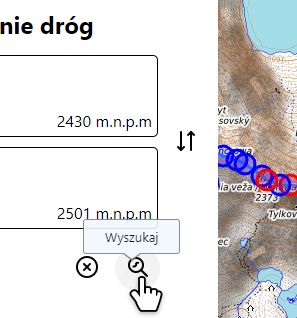
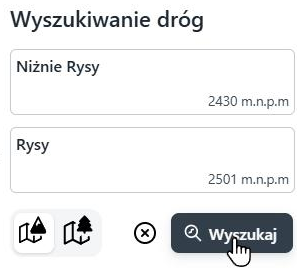
Nowe zrzuty ekranu w zakładce Pomoc
Zrzuty pokazują obecny wygląd aplikacji (symbole szczytów i przełęczy,
przycisk Wyszukaj, plakietka z liczbą wariantów). Opis wspomina
oznaczenia na mapie i plakietkę wariantów; poprawiona literówka
w opisach obrazków.

diff --git a/TatraRidges.FrontEnd/src/components/left-panel/help/HelpPanel.tsx b/TatraRidges.FrontEnd/src/components/left-panel/help/HelpPanel.tsx
@@ -16,15 +16,16 @@ const HelpPanel: React.FC = () => {
 				<p>
 					Żeby wyszukać połączenie graniowe pomiędzy dwoma
 					szczytami/przełęczami, należy zaznaczyć lewym przyciskiem myszy punkty
-					jeden po drugim.
+					jeden po drugim. Szczyty są oznaczone na mapie trójkątem, a przełęcze
+					znakiem )( ułożonym wzdłuż grani.
 				</p>
 				<img
-					alt='Zazaczanie punktu początkowego'
+					alt='Zaznaczanie punktu początkowego'
 					className={classes.img}
 					src={infoImg1}
 				/>
 				<img
-					alt='Zazaczanie punktu końcowego'
+					alt='Zaznaczanie punktu końcowego'
 					className={classes.img}
 					src={infoImg2}
 				/>
@@ -51,8 +52,8 @@ const HelpPanel: React.FC = () => {
 					</ol>
 				</span>
 				<p>
-					Jeśli istnieje więcej niż jeden wariant drogi, pojawi się ruszająca
-					się ikonka z liczbą dostępnych pozostałych wariantów.
+					Jeśli istnieje więcej niż jeden wariant drogi, przy odcinku pojawi się
+					ruszająca się ikonka z liczbą pozostałych wariantów (np. +1).
 				</p>
 				<img
 					alt='Ikonka alternatywnych wariantów'
